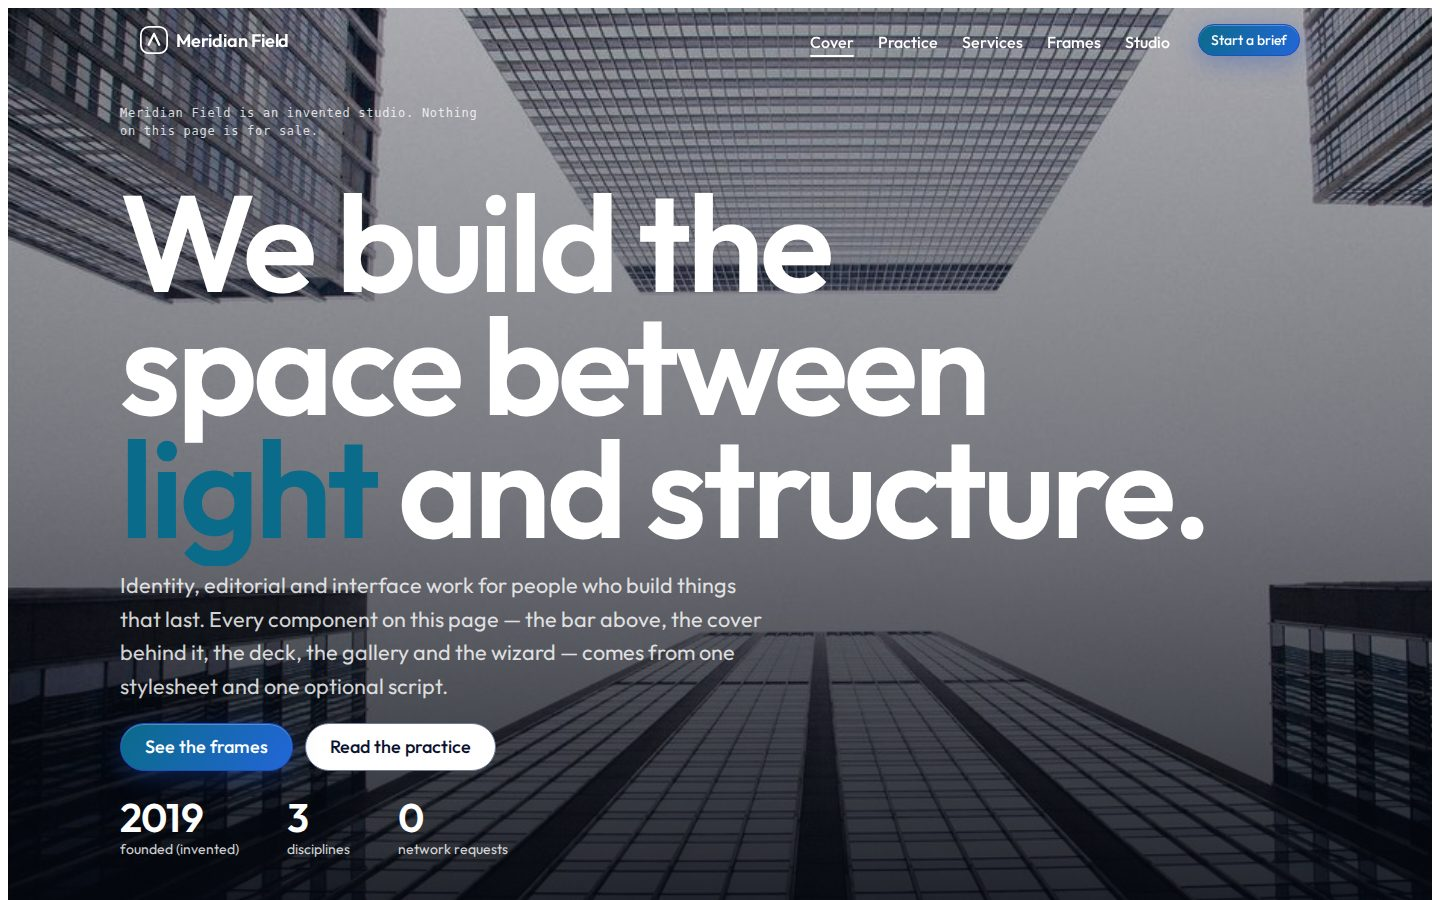
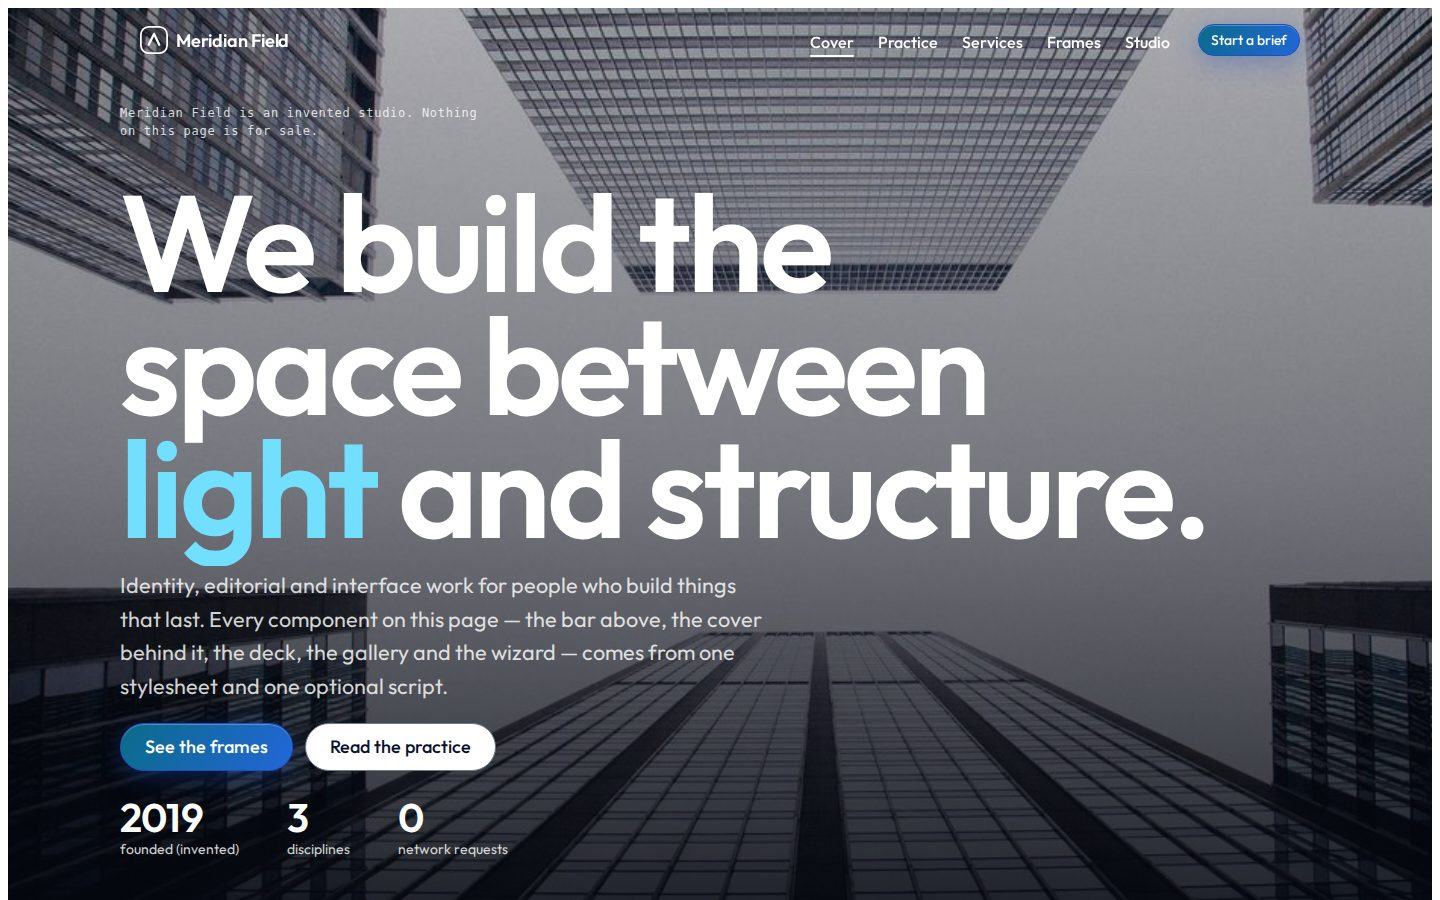
Hero: the accent word takes the light cyan primitive in both themes, since the light-theme accent is now a deep teal that sinks into the dark scrim; contract note and changelog; baseline and studio shots refreshed

Changed region(s): [[0.0625, 0.4667, 0.2812, 0.6533]]

diff --git a/packages/ivolt/src/css/components/hero.css b/packages/ivolt/src/css/components/hero.css
@@ -9,9 +9,9 @@
  * cannot use `--iv-color-text` (dark in the light theme) over the scrim. The
  * locals `--iv-hero-ink`, `--iv-hero-muted` and `--iv-hero-accent` carry the
  * light-on-dark ramp; `--iv-hero--light` points them back at the theme
- * tokens. `--iv-hero-accent` defaults to `--iv-color-accent` instead of
- * `--iv-color-primary` because the light-theme primary is a deep cobalt and
- * fails AA over the scrim.
+ * tokens. `--iv-hero-accent` defaults to the light cyan primitive rather than
+ * a theme token: the light-theme primary and accent are deep cobalt and teal
+ * that pass AA on white but sink into the dark scrim (ADR-049).
  * Locals: --iv-hero-min --iv-hero-max-width --iv-hero-scrim --iv-hero-ink
  *         --iv-hero-muted --iv-hero-accent --iv-hero-gap
  * Declares no @layer and imports nothing: the entry point does that.
@@ -23,7 +23,7 @@
   --iv-hero-max-width: var(--iv-container-max);
   --iv-hero-ink: var(--iv-palette-neutral-0);
   --iv-hero-muted: color-mix(in srgb, var(--iv-palette-neutral-0) 82%, transparent);
-  --iv-hero-accent: var(--iv-color-accent);
+  --iv-hero-accent: var(--iv-palette-cyan-400);
   --iv-hero-gap: var(--iv-space-5);
   --iv-hero-scrim: linear-gradient(
     to top,

diff --git a/docs/API_CONTRACT.md b/docs/API_CONTRACT.md
@@ -460,7 +460,7 @@ Familia CSS de composición de portadas, «súper espectaculares» sin JS obliga
 | `__media` | capa de fondo (`position: absolute; inset: 0; z-index: -2`) con `img`/`video` `object-fit: cover` o gradiente; `.iv-hero--kenburns` la escala 1 → 1.08 en 18 s (detenido con reduced motion) |
 | `__scrim` | capa `-1` con gradiente de abajo (`--iv-hero-scrim`, por defecto carbón 0→0.85) para AA del texto; `.iv-hero--light` invierte |
 | `__content` | columna con `max-inline-size: var(--iv-hero-max-width)`, `margin-inline: auto` |
-| `__kicker` | mono, uppercase, `letter-spacing: .2em`, `--iv-hero-accent` (= `--iv-color-accent`: el primary del tema claro no llega a AA sobre el scrim carbón; con `--light` vuelve a `--iv-color-primary`); `.iv-hero--terminal` le añade el prompt `::before` («$ ») y un cursor `::after` que parpadea |
+| `__kicker` | mono, uppercase, `letter-spacing: .2em`, `--iv-hero-accent` (= `--iv-palette-cyan-400` en ambos temas desde rc.2, ADR-049: el primary y el accent del tema claro son cobalto y cian oscuros que pasan AA sobre blanco pero se hunden en el scrim; con `--light` vuelve a `--iv-color-primary`); `.iv-hero--terminal` le añade el prompt `::before` («$ ») y un cursor `::after` que parpadea |
 | `__title` | `clamp(2.75rem, 8vw, 7.5rem)`, `line-height: 0.92`, `letter-spacing: -0.04em`, peso 600; `em` en `--iv-hero-accent`; `.iv-hero__title > span` con `.iv-rise` (clase pública de `effects.css`: entrada por líneas al cargar, escalonada por `--iv-i`) para entrada por líneas (CSS-only: `animation` al cargar, escalonada por `--iv-i`, anulada con reduced motion) |
 | `__lead` | `clamp(1.05rem, 1.2vw, 1.3rem)`, `max-inline-size: 48ch`, muted |
 | `__actions` | cluster de botones |

diff --git a/packages/ivolt/CHANGELOG.md b/packages/ivolt/CHANGELOG.md
@@ -6,6 +6,7 @@ All notable changes to `@intervolutions/ivolt`. Dates are added when a version i
 
 ### Changed
 - **Cobalt** (ADR-049): the default palette moves from green to the colours of intervolutions.com: navy-tinted neutrals, cobalt primary, cyan accent, indigo info, lime success, coral danger, amber warning; every semantic pair measured against WCAG in both themes. New tokens `--iv-gradient-brand` and `--iv-gradient-primary`. Radii are 6, 14 and 22 px (`sm`, `md`, `lg`). `--iv-font-sans` lists Outfit first (the package ships no font files; the site serves Outfit under the OFL). Components adopt the treatments of the reference site: pill buttons with the brand gradient and a glow, cobalt-tinted ghost buttons, translucent cards with a hairline stroke, tinted `kbd`, 14 px fields.
+- `Hero`: `--iv-hero-accent` defaults to `--iv-palette-cyan-400` in both themes instead of `--iv-color-accent`, whose light value is now a deep teal that sinks into the dark scrim; `--light` still points it at `--iv-color-primary`.
 - Breaking for the beta only: the eleven-step `--iv-palette-green-*` (now five steps, success only) and `--iv-palette-blue-*` are gone; the new hues are `cobalt`, `cyan` and `indigo`.
 
 ## 1.0.0-rc.1 — 2026-09-15 (npm, tag `next`)
